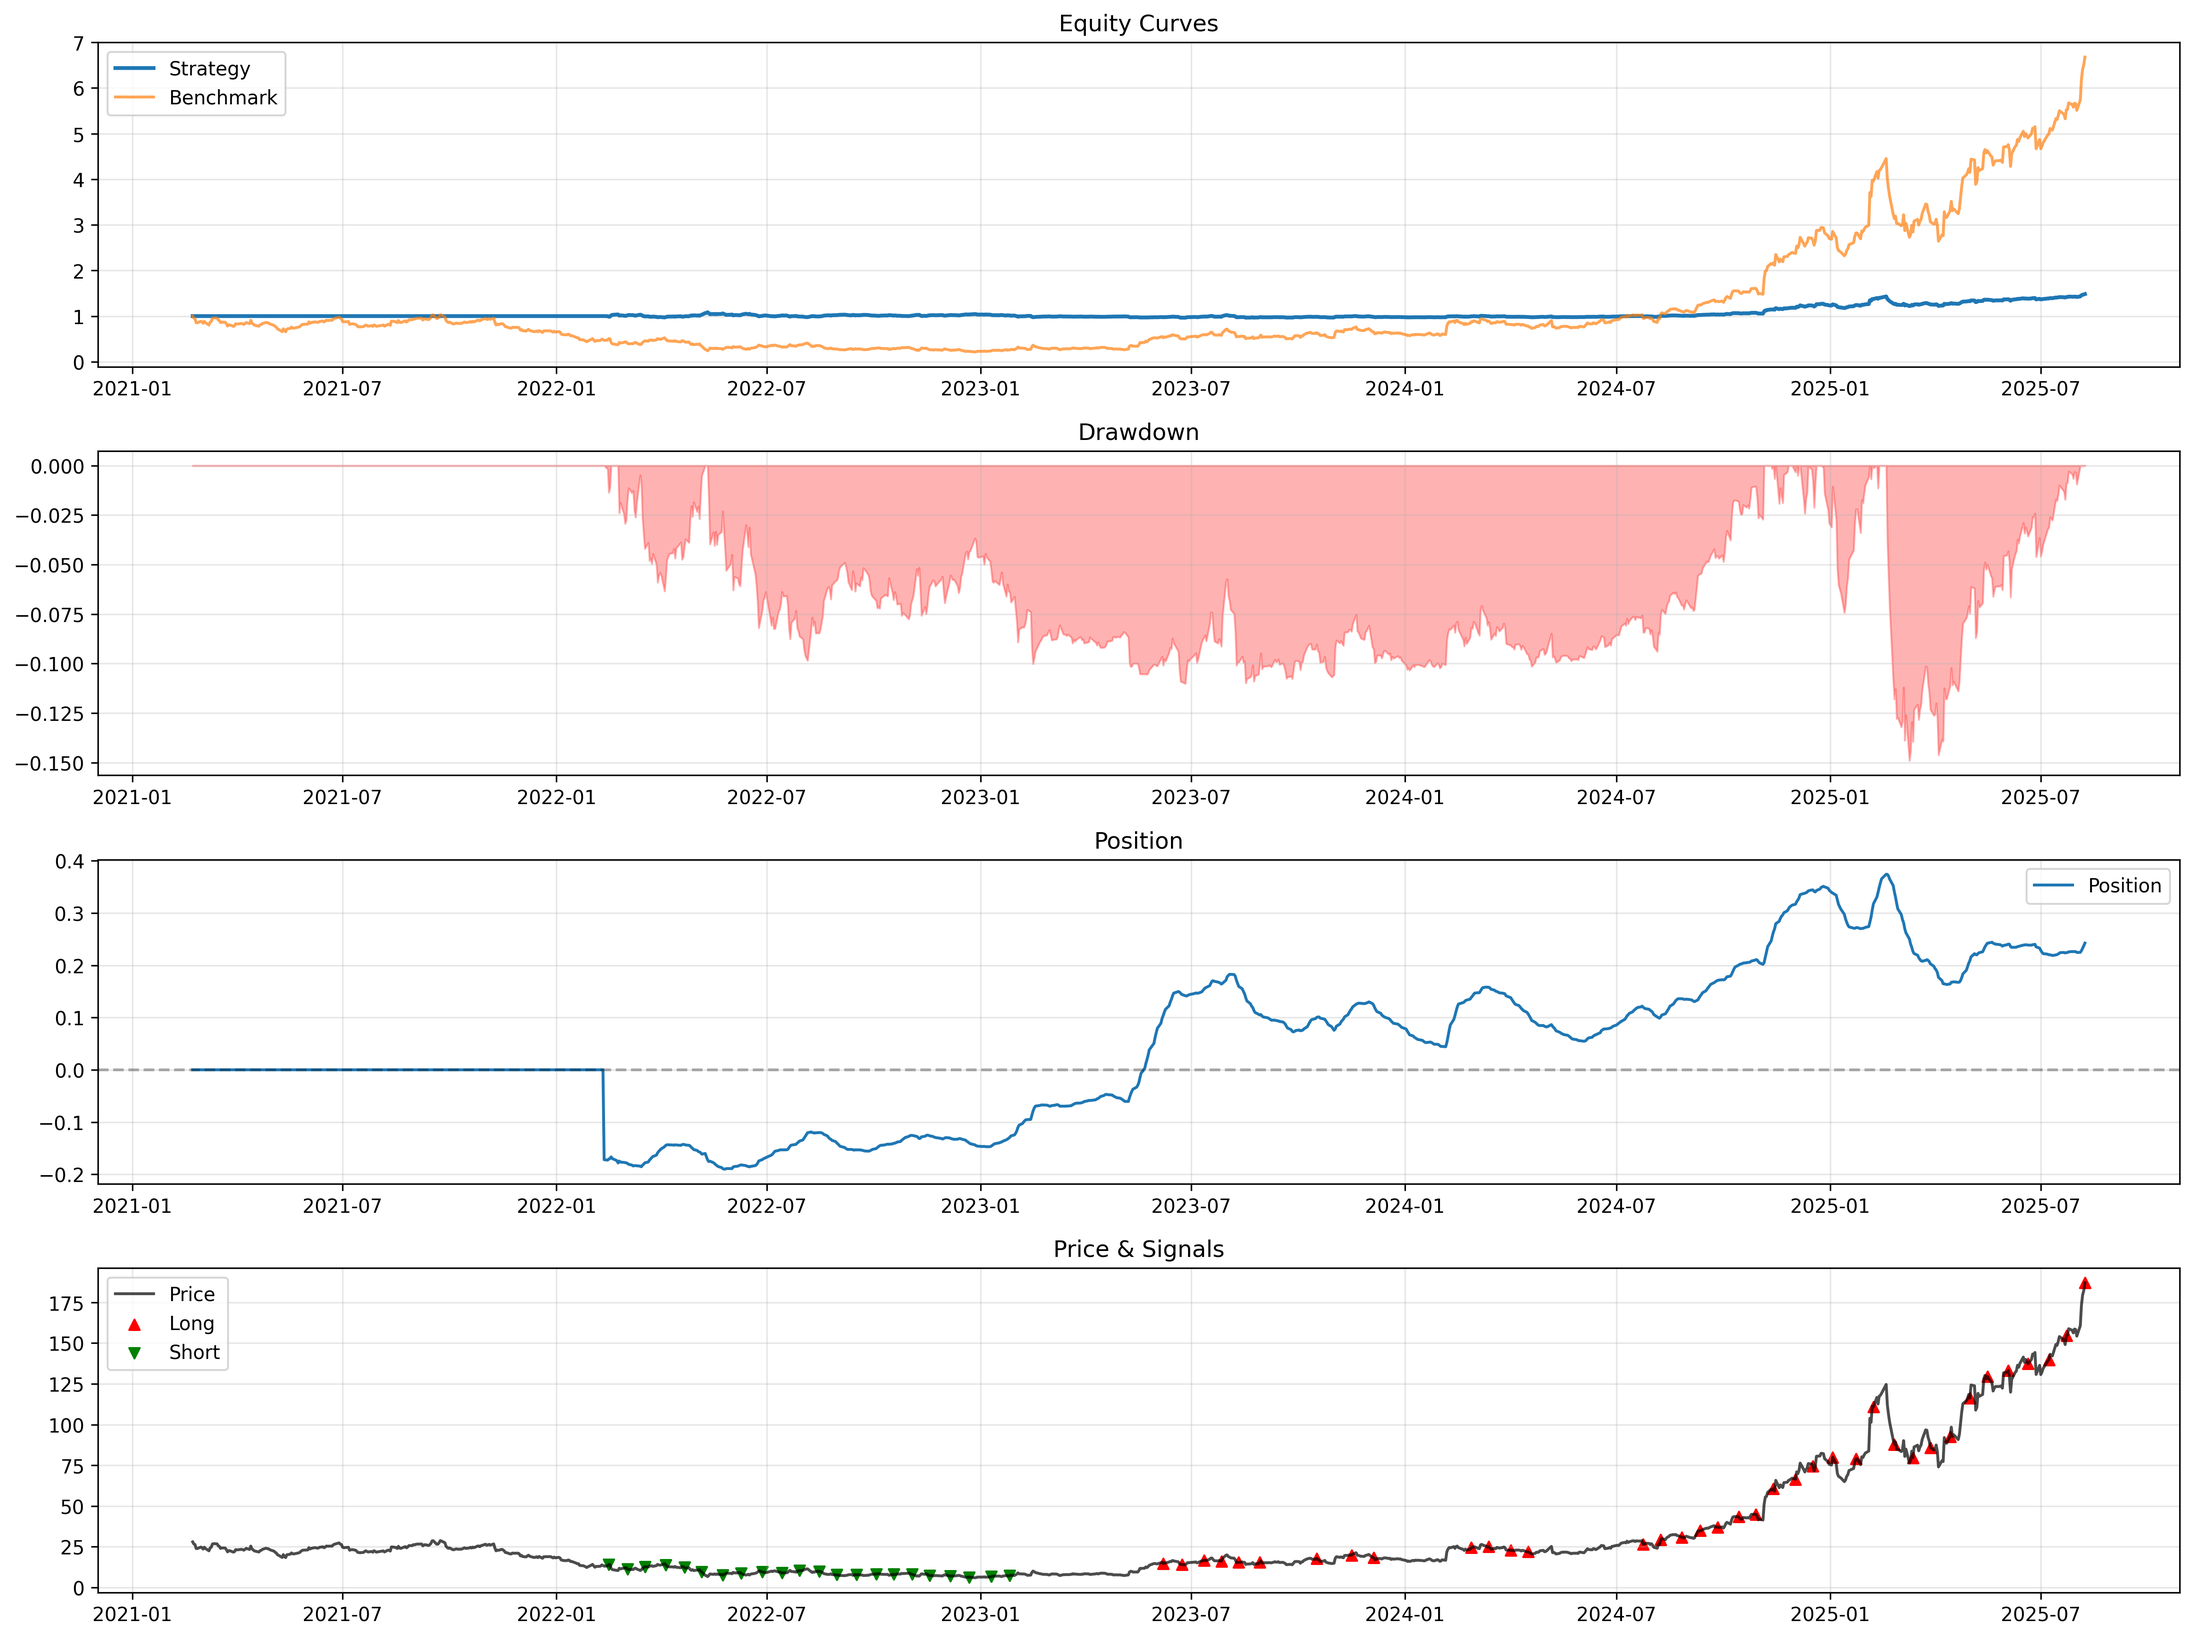
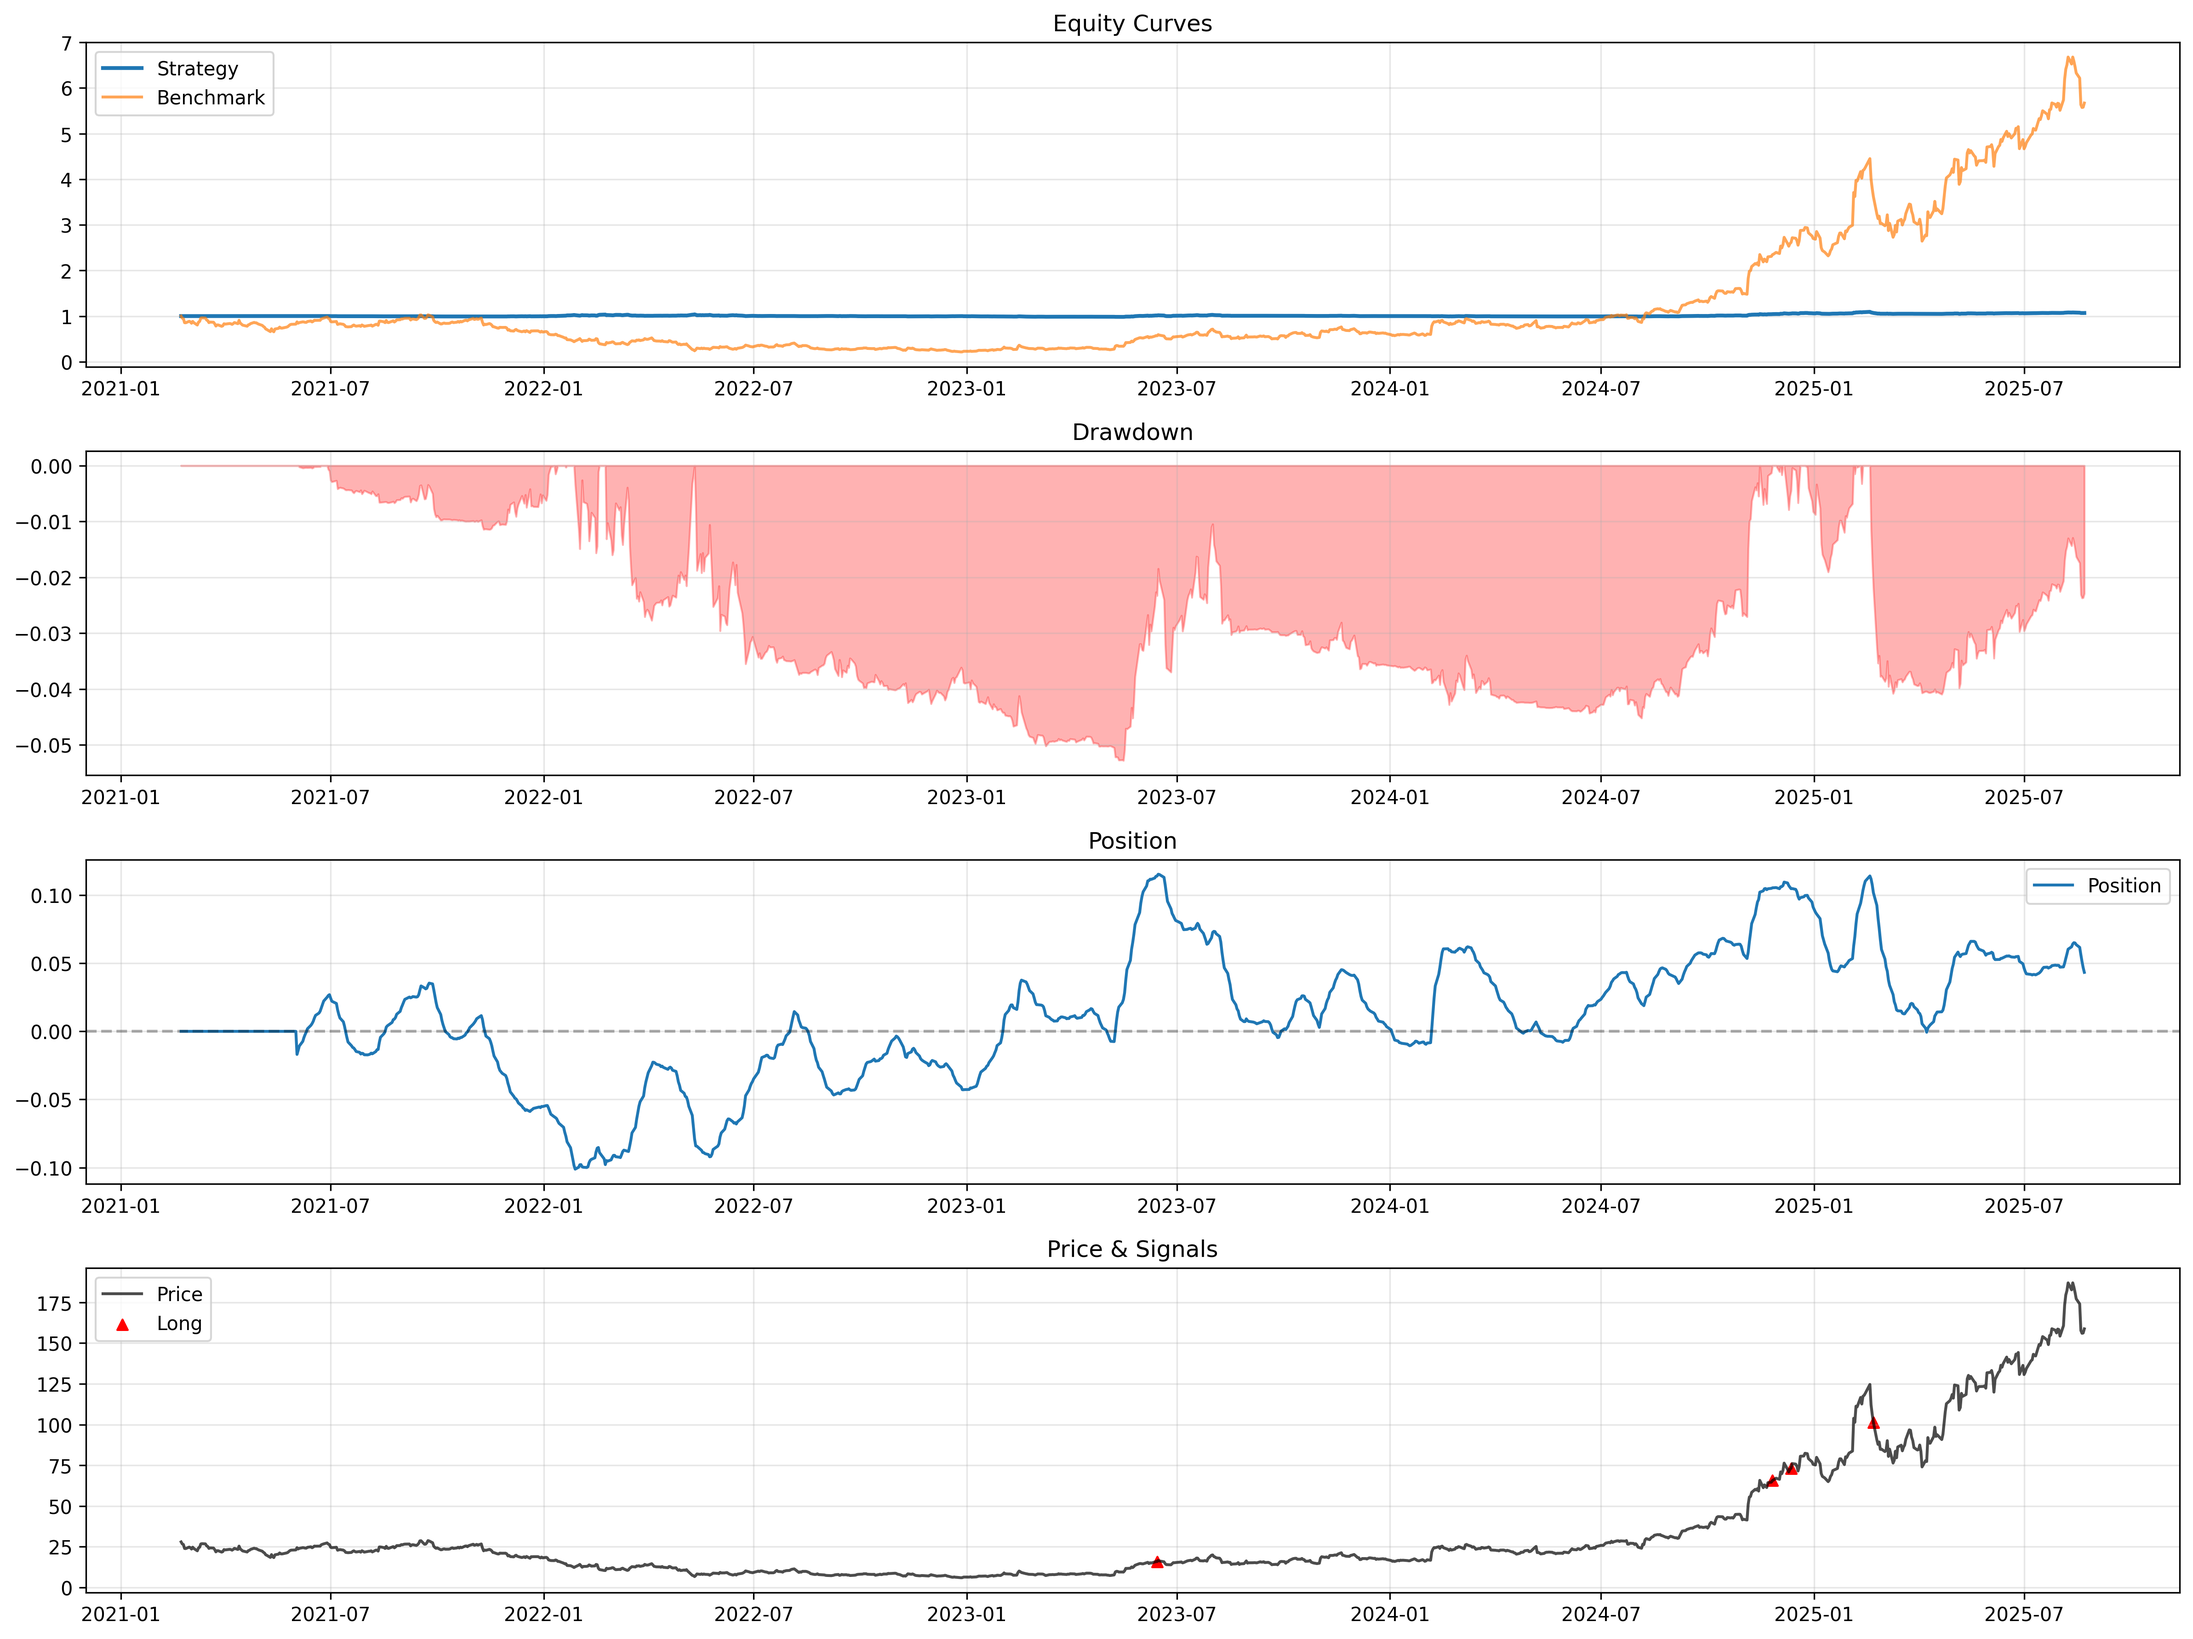
Trading rule update

diff --git a/strategy_core/sysobjects/engine.py b/strategy_core/sysobjects/engine.py
@@ -57,6 +57,7 @@ class BacktestEngine(TradingEngine):
         self.start_date = pd.Timestamp(start_date)
         self.end_date = pd.Timestamp(end_date)
         self.results = None
+        self.load_bars = 70
 
     def run(self) -> BacktestResults:
         """
@@ -83,10 +84,9 @@ class BacktestEngine(TradingEngine):
             price_df[f'forecast_{ticker}'] = 0.0
 
         # Strategy execution loop - CTA style
-        loadBars = 70  # Minimum bars needed for strategy
 
         for i, (current_date, row) in enumerate(price_df.iterrows()):
-            if i < loadBars:
+            if i < self.load_bars:
                 continue
 
             try:
@@ -103,13 +103,9 @@ class BacktestEngine(TradingEngine):
                 for instrument in self.portfolio.instruments:
                     ticker = instrument.ticker
 
-                    # Check if this instrument has valid data on this date
-                    has_valid_data = False
-                    if ticker in current_prices and pd.notna(current_prices[ticker]) and current_prices[ticker] > 0:
-                        has_valid_data = True
-                    
+                    # Check if this instrument has valid data on this data
                     # Only process instruments that have valid data
-                    if has_valid_data:
+                    if ticker in current_prices and pd.notna(current_prices[ticker]) and current_prices[ticker] > 0:
                         # Get forecast for this instrument
                         forecast_value = 0.0
                         if ticker in forecasts:
@@ -138,6 +134,7 @@ class BacktestEngine(TradingEngine):
 
             except Exception as e:
                 self.logger.error(f"Error processing {current_date}: {str(e)}")
+                print(f"Error processing {current_date}: {str(e)}")
                 continue
 
         # Fill any remaining NaN positions for all instruments
@@ -145,8 +142,8 @@ class BacktestEngine(TradingEngine):
             ticker = instrument.ticker
             price_df[f'pos_{ticker}'] = price_df[f'pos_{ticker}'].fillna(0)
 
-        # Calculate performance using CTA-style calculation
-        results_df, stats = self._calculate_cta_results(price_df)
+        # Calculate performance after calculation
+        results_df, stats = self._calculate_results(price_df)
 
         # Create BacktestResults object with the calculated data
         self.results = BacktestResults(
@@ -301,9 +298,7 @@ class BacktestEngine(TradingEngine):
             self.logger.error(f"Error converting forecast to position: {str(e)}")
             return 0.0
 
-    def _calculate_cta_results(self, price_df: pd.DataFrame) -> tuple:
-        """Calculate backtest results using CTA-style method for multiple instruments"""
-
+    def _calculate_results(self, price_df: pd.DataFrame) -> tuple:
         def get_max_drawdown(array):
             array = pd.Series(array)
             cummax = array.cummax()

diff --git a/strategy_backtest/main.py b/strategy_backtest/main.py
@@ -6,19 +6,17 @@ Demonstrates complete workflow with integrated components
 
 # Standard library imports
 import logging
-import sys
 import os
-
-from strategy_core.sysrules.ewmac import optimize_ewmac
-
-# Add project root to Python path
-project_root = os.path.dirname(os.path.dirname(os.path.abspath(__file__)))
-sys.path.insert(0, project_root)
+import sys
 
 from strategy_core.sysobjects import Portfolio
 from strategy_core.sysobjects.engine import BacktestEngine
 from strategy_core.sysutils.config_manager import ConfigManager
 from strategy_core.sysutils.engine_utils import *
+
+# Add project root to Python path
+project_root = os.path.dirname(os.path.dirname(os.path.abspath(__file__)))
+sys.path.insert(0, project_root)
 
 
 def setup_logging():
@@ -53,7 +51,7 @@ def main(config_arguments=None):
         # Create strategy
         logger.info("Creating strategy...")
         strategy = create_strategy_from_config(instruments, backtest_config)
-        
+
         # Validate strategy
         if not strategy.validate_strategy(price_data):
             logger.error("Strategy validation failed")
@@ -67,7 +65,7 @@ def main(config_arguments=None):
         # Get date range from config
         start_date = backtest_config.get("start_date")
         end_date = backtest_config.get("end_date")
-        
+
         logger.info(f"Backtest period: {start_date} to {end_date}")
 
         # Create and run backtest engine
@@ -86,7 +84,7 @@ def main(config_arguments=None):
 
         # Display results
         logger.info("Backtest completed successfully!")
-        
+
         # Print performance summary
         performance = results.get_performance_summary()
         logger.info("=== BACKTEST RESULTS ===")

diff --git a/strategy_core/sysrules/breakout.py b/strategy_core/sysrules/breakout.py
@@ -1,0 +1,38 @@
+import numpy as np
+
+
+def breakout(price, lookback=10, smooth=None):
+    """
+    :param price: The price or other series to use (assumed Tx1)
+    :type price: pd.DataFrame
+
+    :param lookback: Lookback in days
+    :type lookback: int
+
+    :param lookback: Smooth to apply in days. Must be less than lookback! Defaults to smooth/4
+    :type lookback: int
+
+    :returns: pd.DataFrame -- unscaled, uncapped forecast
+
+    With thanks to nemo4242 on elitetrader.com for vectorisation
+
+    """
+    if smooth is None:
+        smooth = max(int(lookback / 4.0), 1)
+
+    assert smooth < lookback
+
+    roll_max = price.rolling(
+        lookback, min_periods=int(min(len(price), np.ceil(lookback / 2.0)))
+    ).max()
+    roll_min = price.rolling(
+        lookback, min_periods=int(min(len(price), np.ceil(lookback / 2.0)))
+    ).min()
+
+    roll_mean = (roll_max + roll_min) / 2.0
+
+    # gives a nice natural scaling
+    output = 40.0 * ((price - roll_mean) / (roll_max - roll_min))
+    smoothed_output = output.ewm(span=smooth, min_periods=np.ceil(smooth / 2.0)).mean()
+
+    return smoothed_output

diff --git a/strategy_core/sysutils/engine_utils.py b/strategy_core/sysutils/engine_utils.py
@@ -1,7 +1,6 @@
 from strategy_core.sysobjects import InstrumentList, Instrument, MultiplePrices
 from strategy_core.sysobjects.strategy import Strategy
-from strategy_core.sysrules import ewmac
-from strategy_core.sysrules.trading_rule import TradingRule
+from strategy_core.sysobjects.trading_rule import TradingRule
 from strategy_data.database import ArcticReader
 
 

diff --git a/strategy_core/sysrules/ewmac.py b/strategy_core/sysrules/ewmac.py
@@ -6,7 +6,7 @@ from hyperopt import fmin, tpe, hp, STATUS_OK, Trials
 
 def ewmac(price_data, params):
     """
-    EWMAC trading rule - Exponentially Weighted Moving Average Crossover
+    EWMAC trading rule - Equal Weighted Moving Average Crossover
     
     Parameters:
     -----------
